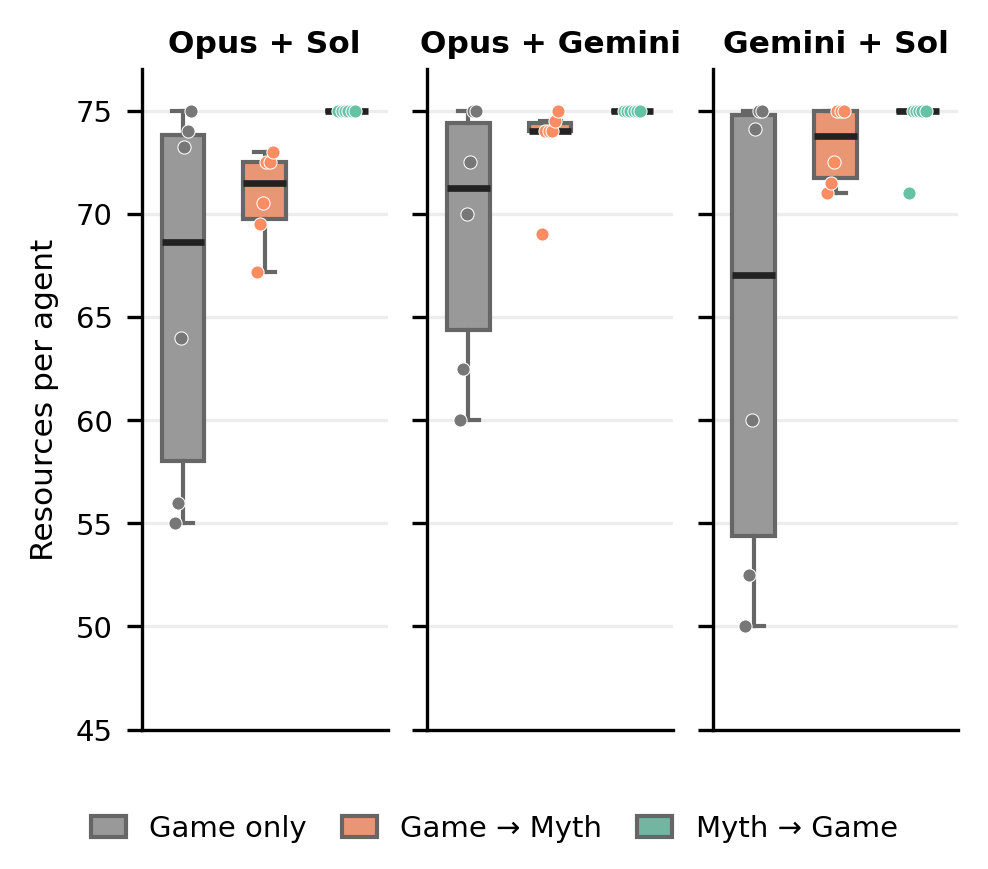
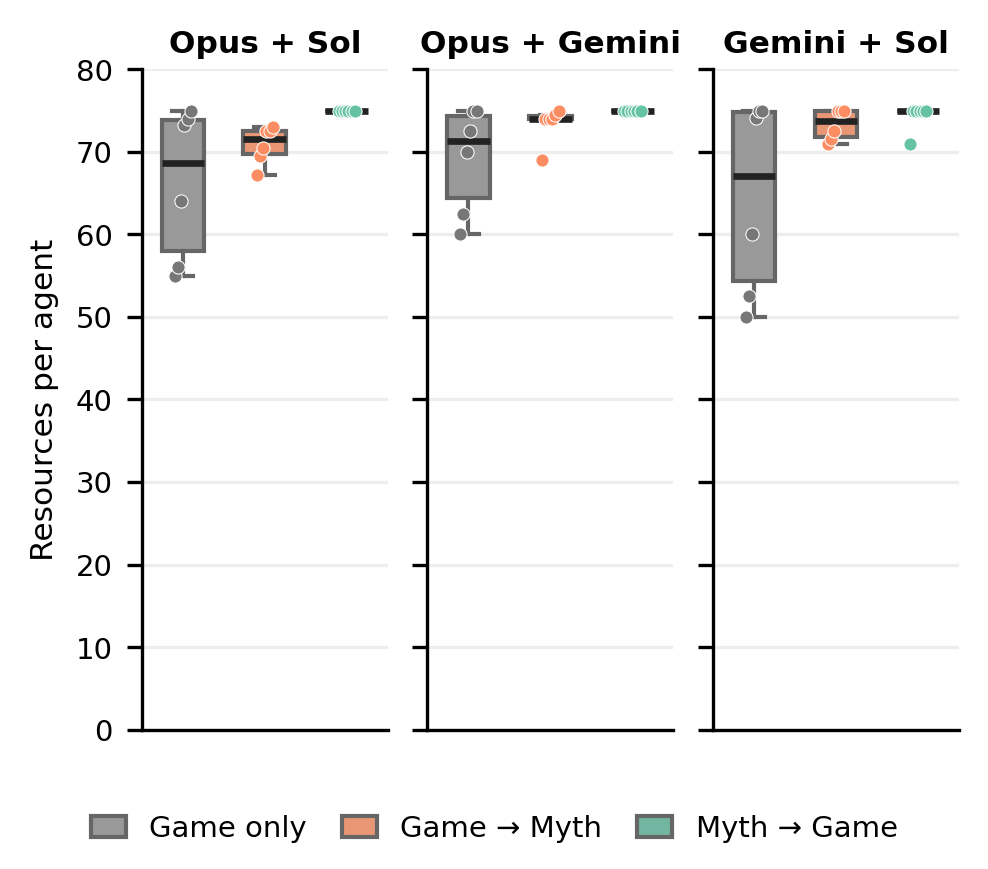
Figure 4: keep 0-80 y-axis with ticks every 10, as in Figures 2-3

diff --git a/scripts/analyze_frontier_main_mixed_20260928.py b/scripts/analyze_frontier_main_mixed_20260928.py
@@ -123,13 +123,12 @@ def plot_dyads(df):
     configure_matplotlib()
     # Paper Figure 4: one column wide, drawn near print size, no title (the caption carries it).
     # Each dot = one run, mean of its 2 agents (n = 6 per box, 3 with each family sending first).
-    # Every run ends between 50 and 75, so the y-axis starts at 45 to show the spread.
     from matplotlib.patches import Patch
     fig, axes = plt.subplots(1, 3, figsize=(3.4, 2.9), sharey=True, squeeze=False)
     for ax, panel in zip(axes[0], ["Opus 5 + Sol", "Opus 5 + Gemini", "Gemini + Sol"]):
         draw(ax, df, panel, 2, "mixed", dot_size=10, dot_edge=.25)
         ax.set_xticks([])
-        ax.set_ylim(45, 77)
+        ax.set_yticks(range(0, 81, 10))
         ax.tick_params(axis="y", labelsize=7)
         ax.set_title(panel.replace("Opus 5", "Opus"), fontsize=7.5, fontweight="bold", pad=4)
     axes[0][0].set_ylabel("Resources per agent", fontsize=7.5)
